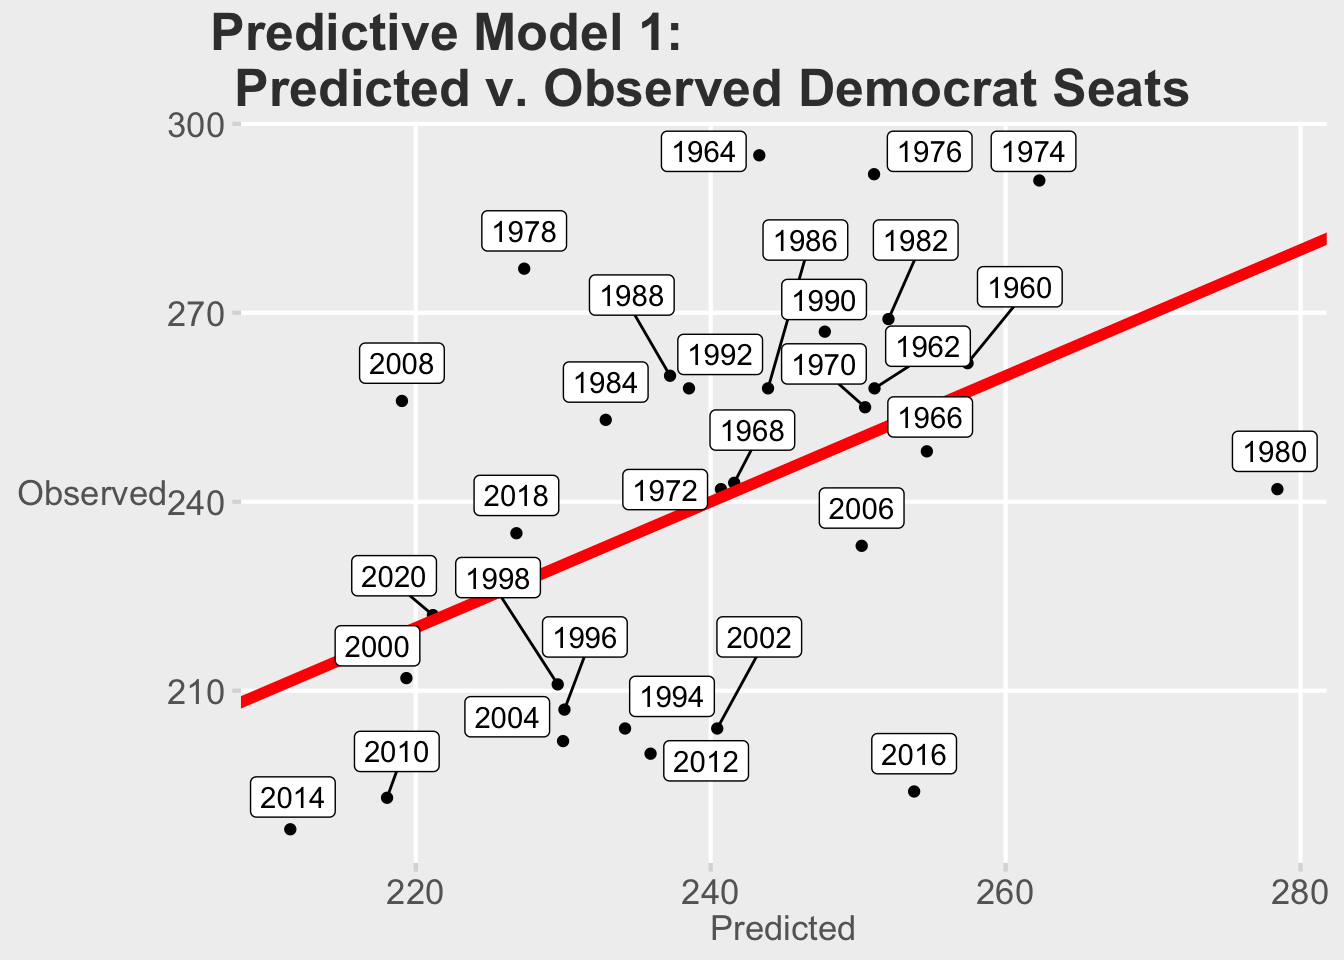
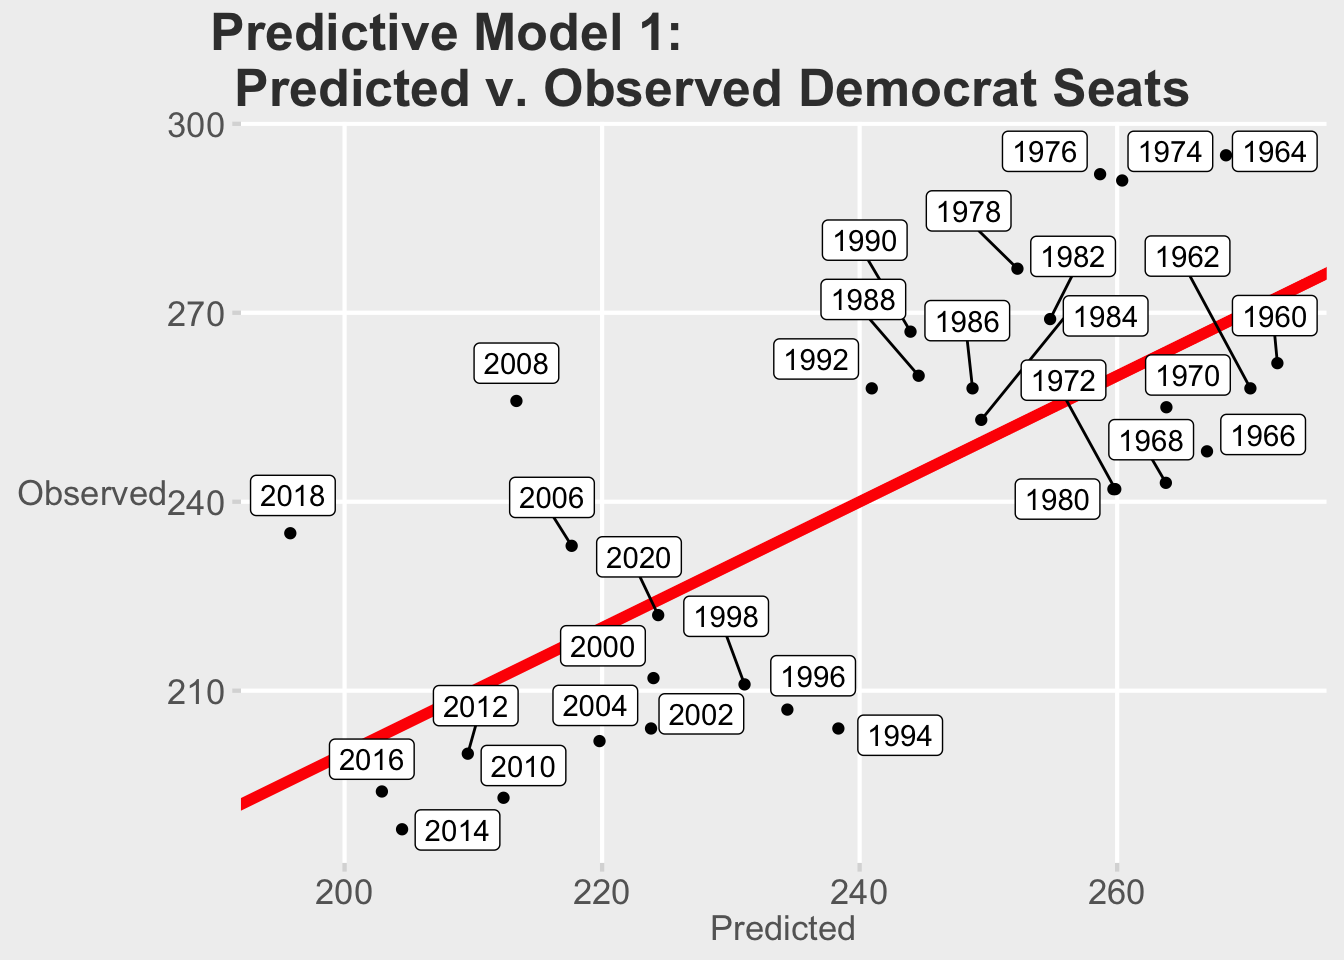
finalish changes

diff --git a/content/post/2022-09-25-week-3-polling-and-elections/index.html b/content/post/2022-09-25-week-3-polling-and-elections/index.html
@@ -17,7 +17,7 @@ summary: This weeks blog post will focus on incorporating polling data to add in
 </div>
 <div id="my-predictive-model-so-far" class="section level1">
 <h1>My Predictive Model So Far</h1>
-<p>To clarify from my previous posts where I didn’t clearly have a section of my model and its predictions formally, I will do that now. I have decided to look at the Democratic seat number as the dependent variable for my model. My previous model combined economy data which I chose to be GDP, disposable income, and unemployment. With this model in my previous post, the R-squared is 0.22. This is relatively good, considering that 20% of the variance can be explained by these trends. However, the residual standard error is 29.18 on 27 degrees of freedom. Below is my a graph of my model that includes my observed vs predicted values.</p>
+<p>To clarify from my previous posts where I didn’t clearly have a section of my model and its predictions formally, I will do that now. I have decided to look at the Democratic seat number as the dependent variable for my model. My previous model combined economy data which I chose to be GDP, disposable income, and unemployment. With this model in my previous post, the R-squared is 0.22. This is relatively good, considering that 52% of the variance can be explained by these trends. However, the residual standard error is 29.18 on 27 degrees of freedom. Below is my a graph of my model that includes my observed vs predicted values.</p>
 <table class="table table-striped table-hover table-condensed table-responsive" style="width: auto !important; margin-left: auto; margin-right: auto;">
 <tbody>
 <tr>
@@ -53,7 +53,7 @@ OLS linear regression
 F(3,27)
 </td>
 <td style="text-align:right;">
-2.60
+9.93
 </td>
 </tr>
 <tr>
@@ -61,7 +61,7 @@ F(3,27)
 R²
 </td>
 <td style="text-align:right;">
-0.22
+0.52
 </td>
 </tr>
 <tr>
@@ -69,7 +69,7 @@ R²
 Adj. R²
 </td>
 <td style="text-align:right;">
-0.14
+0.47
 </td>
 </tr>
 </tbody>
@@ -99,13 +99,13 @@ p
 (Intercept)
 </td>
 <td style="text-align:right;">
-255.72
+285.26
 </td>
 <td style="text-align:right;">
-21.71
+17.98
 </td>
 <td style="text-align:right;">
-11.78
+15.86
 </td>
 <td style="text-align:right;">
 0.00
@@ -116,33 +116,33 @@ p
 GDP_growth_qt
 </td>
 <td style="text-align:right;">
--0.10
-</td>
-<td style="text-align:right;">
-0.04
-</td>
-<td style="text-align:right;">
--2.48
+-0.02
 </td>
 <td style="text-align:right;">
 0.02
+</td>
+<td style="text-align:right;">
+-1.21
+</td>
+<td style="text-align:right;">
+0.24
 </td>
 </tr>
 <tr>
 <td style="text-align:left;font-weight: bold;">
-DSPIC_change_qt
+DSPIC_qt
 </td>
 <td style="text-align:right;">
--0.05
+-0.00
 </td>
 <td style="text-align:right;">
-0.02
+0.00
 </td>
 <td style="text-align:right;">
--2.71
+-5.39
 </td>
 <td style="text-align:right;">
-0.01
+0.00
 </td>
 </tr>
 <tr>
@@ -150,16 +150,16 @@ DSPIC_change_qt
 UNRATE
 </td>
 <td style="text-align:right;">
-0.41
+0.11
 </td>
 <td style="text-align:right;">
-3.50
+2.67
 </td>
 <td style="text-align:right;">
-0.12
+0.04
 </td>
 <td style="text-align:right;">
-0.91
+0.97
 </td>
 </tr>
 </tbody>
@@ -171,13 +171,12 @@ UNRATE
 </tr>
 </tfoot>
 </table>
-<p><img src="{{< blogdown/postref >}}index_files/figure-html/plot%20for%20prediction-1.png" width="672" />
-<strong>While the model is not perfect, I am impressed that the 2020 election was almost perfectly predicted as well as 1972 and 1968. However, the most recent election years in the past two decades my model has primarily been over predicting Dem seats. This is clearly seen in years like 2016, 2014, and 2012.</strong></p>
-<pre class="r"><code>predict(PredictiveModel, data.frame(GDP_growth_qt = 496.200, DSPIC_change_qt = -929.06
+<p><img src="{{< blogdown/postref >}}index_files/figure-html/plot%20for%20prediction-1.png" width="672" /></p>
+<pre class="r"><code>predict(PredictiveModel, data.frame(GDP_growth_qt = 496.200, DSPIC_qt = 30299.2
 , UNRATE = 3.4))</code></pre>
-<pre><code>##        1 
-## 254.6798</code></pre>
-<p>My current model’s prediction <em>without</em> polling information is that for the upcoming election, the Dems will win approximately <strong>255</strong> seats in Congress. One thing to note is that I used last quarter’s inflation rate because our current DSPIC change was so extreme it resulted in an implausible number, so instead I used Q1 DSPIC change which is more in-line with typical rates as my figure for prediction in the model.</p>
+<pre><code>##       1 
+## 214.673</code></pre>
+<p>My current model’s prediction <em>without</em> polling information is that for the upcoming election, the Dems will win approximately <strong>215</strong> seats in Congress. One thing to note is that I used last quarter’s inflation rate because our current DSPIC change was so extreme it resulted in an implausible number, so instead I used Q1 DSPIC change which is more in-line with typical rates as my figure for prediction in the model.</p>
 </div>
 <div id="introduction-to-polling" class="section level1">
 <h1>Introduction to Polling</h1>
@@ -185,7 +184,14 @@ UNRATE
 </div>
 <div id="economist-vs.-five-thirty-eight-prediction-models" class="section level1">
 <h1>Economist vs. Five Thirty Eight Prediction Models</h1>
-<p>In deciding which method I believe is</p>
+<p>In deciding which method I believe is most useful, I will evaluate their methods based on learning from our readings so far. Therefore, my indicators for a “good” predictive model will have to include accurate weighting of polling based on time left to the election, accountability for bias, and I think it’s better to look at local ballots less and generic ballots more since there have been indications that local ballots are often concentrated / can lead to more outliers and errors in our models.</p>
+<p><strong>Why the Economist Might Be Better</strong></p>
+<p>I think the economist election algorithm / model is closer to what I would use. I think it encompasses all of the fundamentals needed for a good model in addition to relying less on local data and polling for their modelling. This is unlike 538 which incorporates a lot of local polling data.</p>
+<p>The Economist notes:</p>
+<blockquote>
+<p>For House elections, the single best indicator is polls—particularly the “generic-ballot” question, which asks Americans which party they want to control Congress. We look at other factors, too. If the party controlling the White House is doing better than expected in special elections, which are contests held between general elections to fill vacant seats, that bodes well for their odds in the midterms. But we also account for the midterm penalty: parties tend to lose votes in the election after they win the White House.</p>
+</blockquote>
+<p>Meanwhile, FiveThirtyEight says that their House models are much less polling based than other bigger races. They place less emphasis on polling and more on what their fundamentals are. I will say, I really like the detail in which 538 explained its methodology and how they correct for pollster bias as well as the timeline adjustment.</p>
 </div>
 <div id="new-model-results" class="section level1">
 <h1>New Model Results</h1>
@@ -224,7 +230,7 @@ OLS linear regression
 F(4,26)
 </td>
 <td style="text-align:right;">
-5.79
+8.57
 </td>
 </tr>
 <tr>
@@ -232,7 +238,7 @@ F(4,26)
 R²
 </td>
 <td style="text-align:right;">
-0.47
+0.57
 </td>
 </tr>
 <tr>
@@ -240,7 +246,7 @@ R²
 Adj. R²
 </td>
 <td style="text-align:right;">
-0.39
+0.50
 </td>
 </tr>
 </tbody>
@@ -270,16 +276,16 @@ p
 (Intercept)
 </td>
 <td style="text-align:right;">
-48.34
+168.41
 </td>
 <td style="text-align:right;">
-62.21
+73.79
 </td>
 <td style="text-align:right;">
-0.78
+2.28
 </td>
 <td style="text-align:right;">
-0.44
+0.03
 </td>
 </tr>
 <tr>
@@ -290,30 +296,30 @@ GDP_growth_qt
 -0.01
 </td>
 <td style="text-align:right;">
-0.04
+0.02
 </td>
 <td style="text-align:right;">
--0.33
+-0.36
 </td>
 <td style="text-align:right;">
-0.74
+0.72
 </td>
 </tr>
 <tr>
 <td style="text-align:left;font-weight: bold;">
-DSPIC_change_qt
+DSPIC_qt
 </td>
 <td style="text-align:right;">
--0.01
+-0.00
+</td>
+<td style="text-align:right;">
+0.00
+</td>
+<td style="text-align:right;">
+-2.56
 </td>
 <td style="text-align:right;">
 0.02
-</td>
-<td style="text-align:right;">
--0.74
-</td>
-<td style="text-align:right;">
-0.47
 </td>
 </tr>
 <tr>
@@ -321,16 +327,16 @@ DSPIC_change_qt
 UNRATE
 </td>
 <td style="text-align:right;">
-1.24
+0.79
 </td>
 <td style="text-align:right;">
-2.95
+2.62
 </td>
 <td style="text-align:right;">
-0.42
+0.30
 </td>
 <td style="text-align:right;">
-0.68
+0.77
 </td>
 </tr>
 <tr>
@@ -338,16 +344,16 @@ UNRATE
 dem_poll_weighted
 </td>
 <td style="text-align:right;">
-3.94
+2.04
 </td>
 <td style="text-align:right;">
-1.13
+1.25
 </td>
 <td style="text-align:right;">
-3.49
+1.63
 </td>
 <td style="text-align:right;">
-0.00
+0.12
 </td>
 </tr>
 </tbody>
@@ -361,6 +367,15 @@ dem_poll_weighted
 </table>
 <p><img src="{{< blogdown/postref >}}index_files/figure-html/weighted%20regression%20with%20polling-1.png" width="672" />
 My new model has a much better R^2 when I consider the weighted polling results. It also seems to be a much closer fit to the observed values with few exceptions like 2008. I think this is indicative that weighted polling results close to the election do help us improve our predictions about elections.</p>
+</div>
+<div id="final-updated-prediction" class="section level1">
+<h1>Final Updated Prediction</h1>
+<p>With this model, it was a bit more difficult to calculate exact number because I used weighted dem polling as one of my variables. For the sake of simplicity, I am chosing to weigh the most recent poll from the a random pollster (in this case, Big Village’s 9/9/22 poll result) and using their most recent adjusted dem pct of 45.02683</p>
+<pre class="r"><code>predict(newmodel, data.frame(GDP_growth_qt = 496.200, DSPIC_qt = 30299.2
+, UNRATE = 3.4, dem_poll_weighted = 45.02683 ))</code></pre>
+<pre><code>##        1 
+## 218.4459</code></pre>
+<p>With this data, my model now shows that Democrats can expect to win 218 seats. This is higher than my previous prediction so I can assume polling data I chose / my model favors Democrats with the current polling results.</p>
 <div id="references" class="section level2">
 <h2>References</h2>
 <p>Abramowitz, A. (2018). Will Democrats Catch a Wave? The Generic Ballot Model and the 2018 US House Elections. <em>PS: Political Science &amp; Politics, 51</em>(S1), 4-6. <a href="doi:10.1017/S1049096518001567" class="uri">doi:10.1017/S1049096518001567</a></p>
